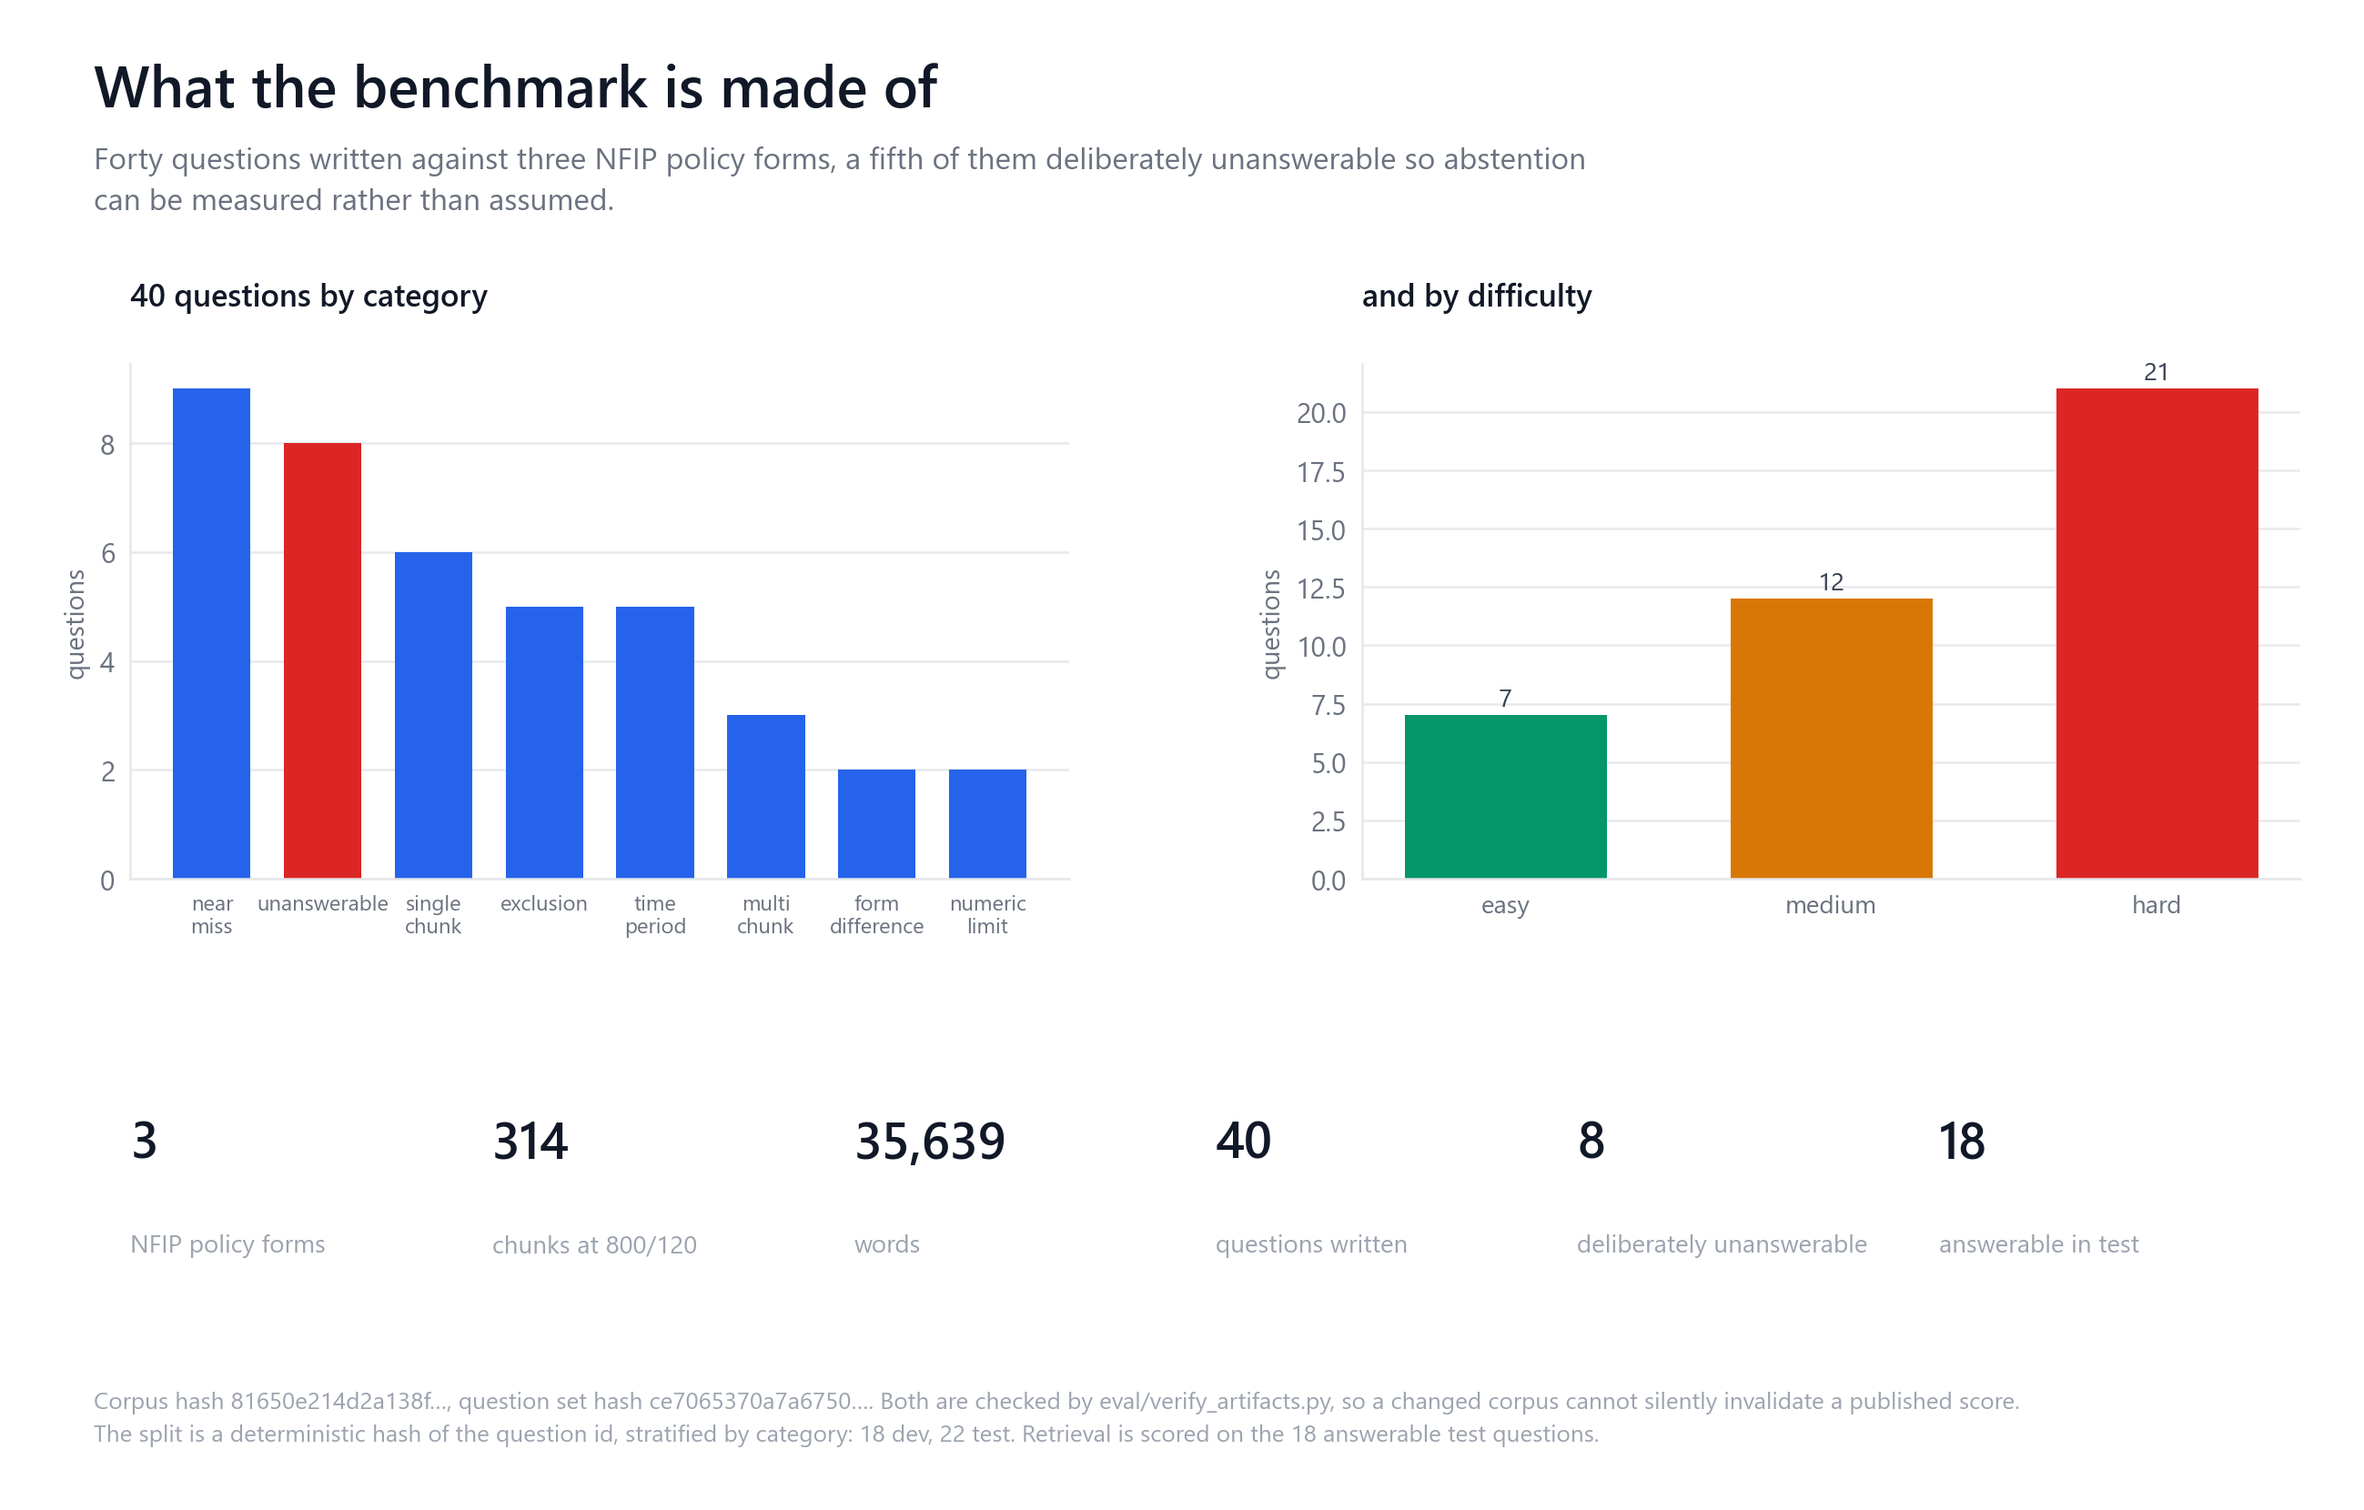
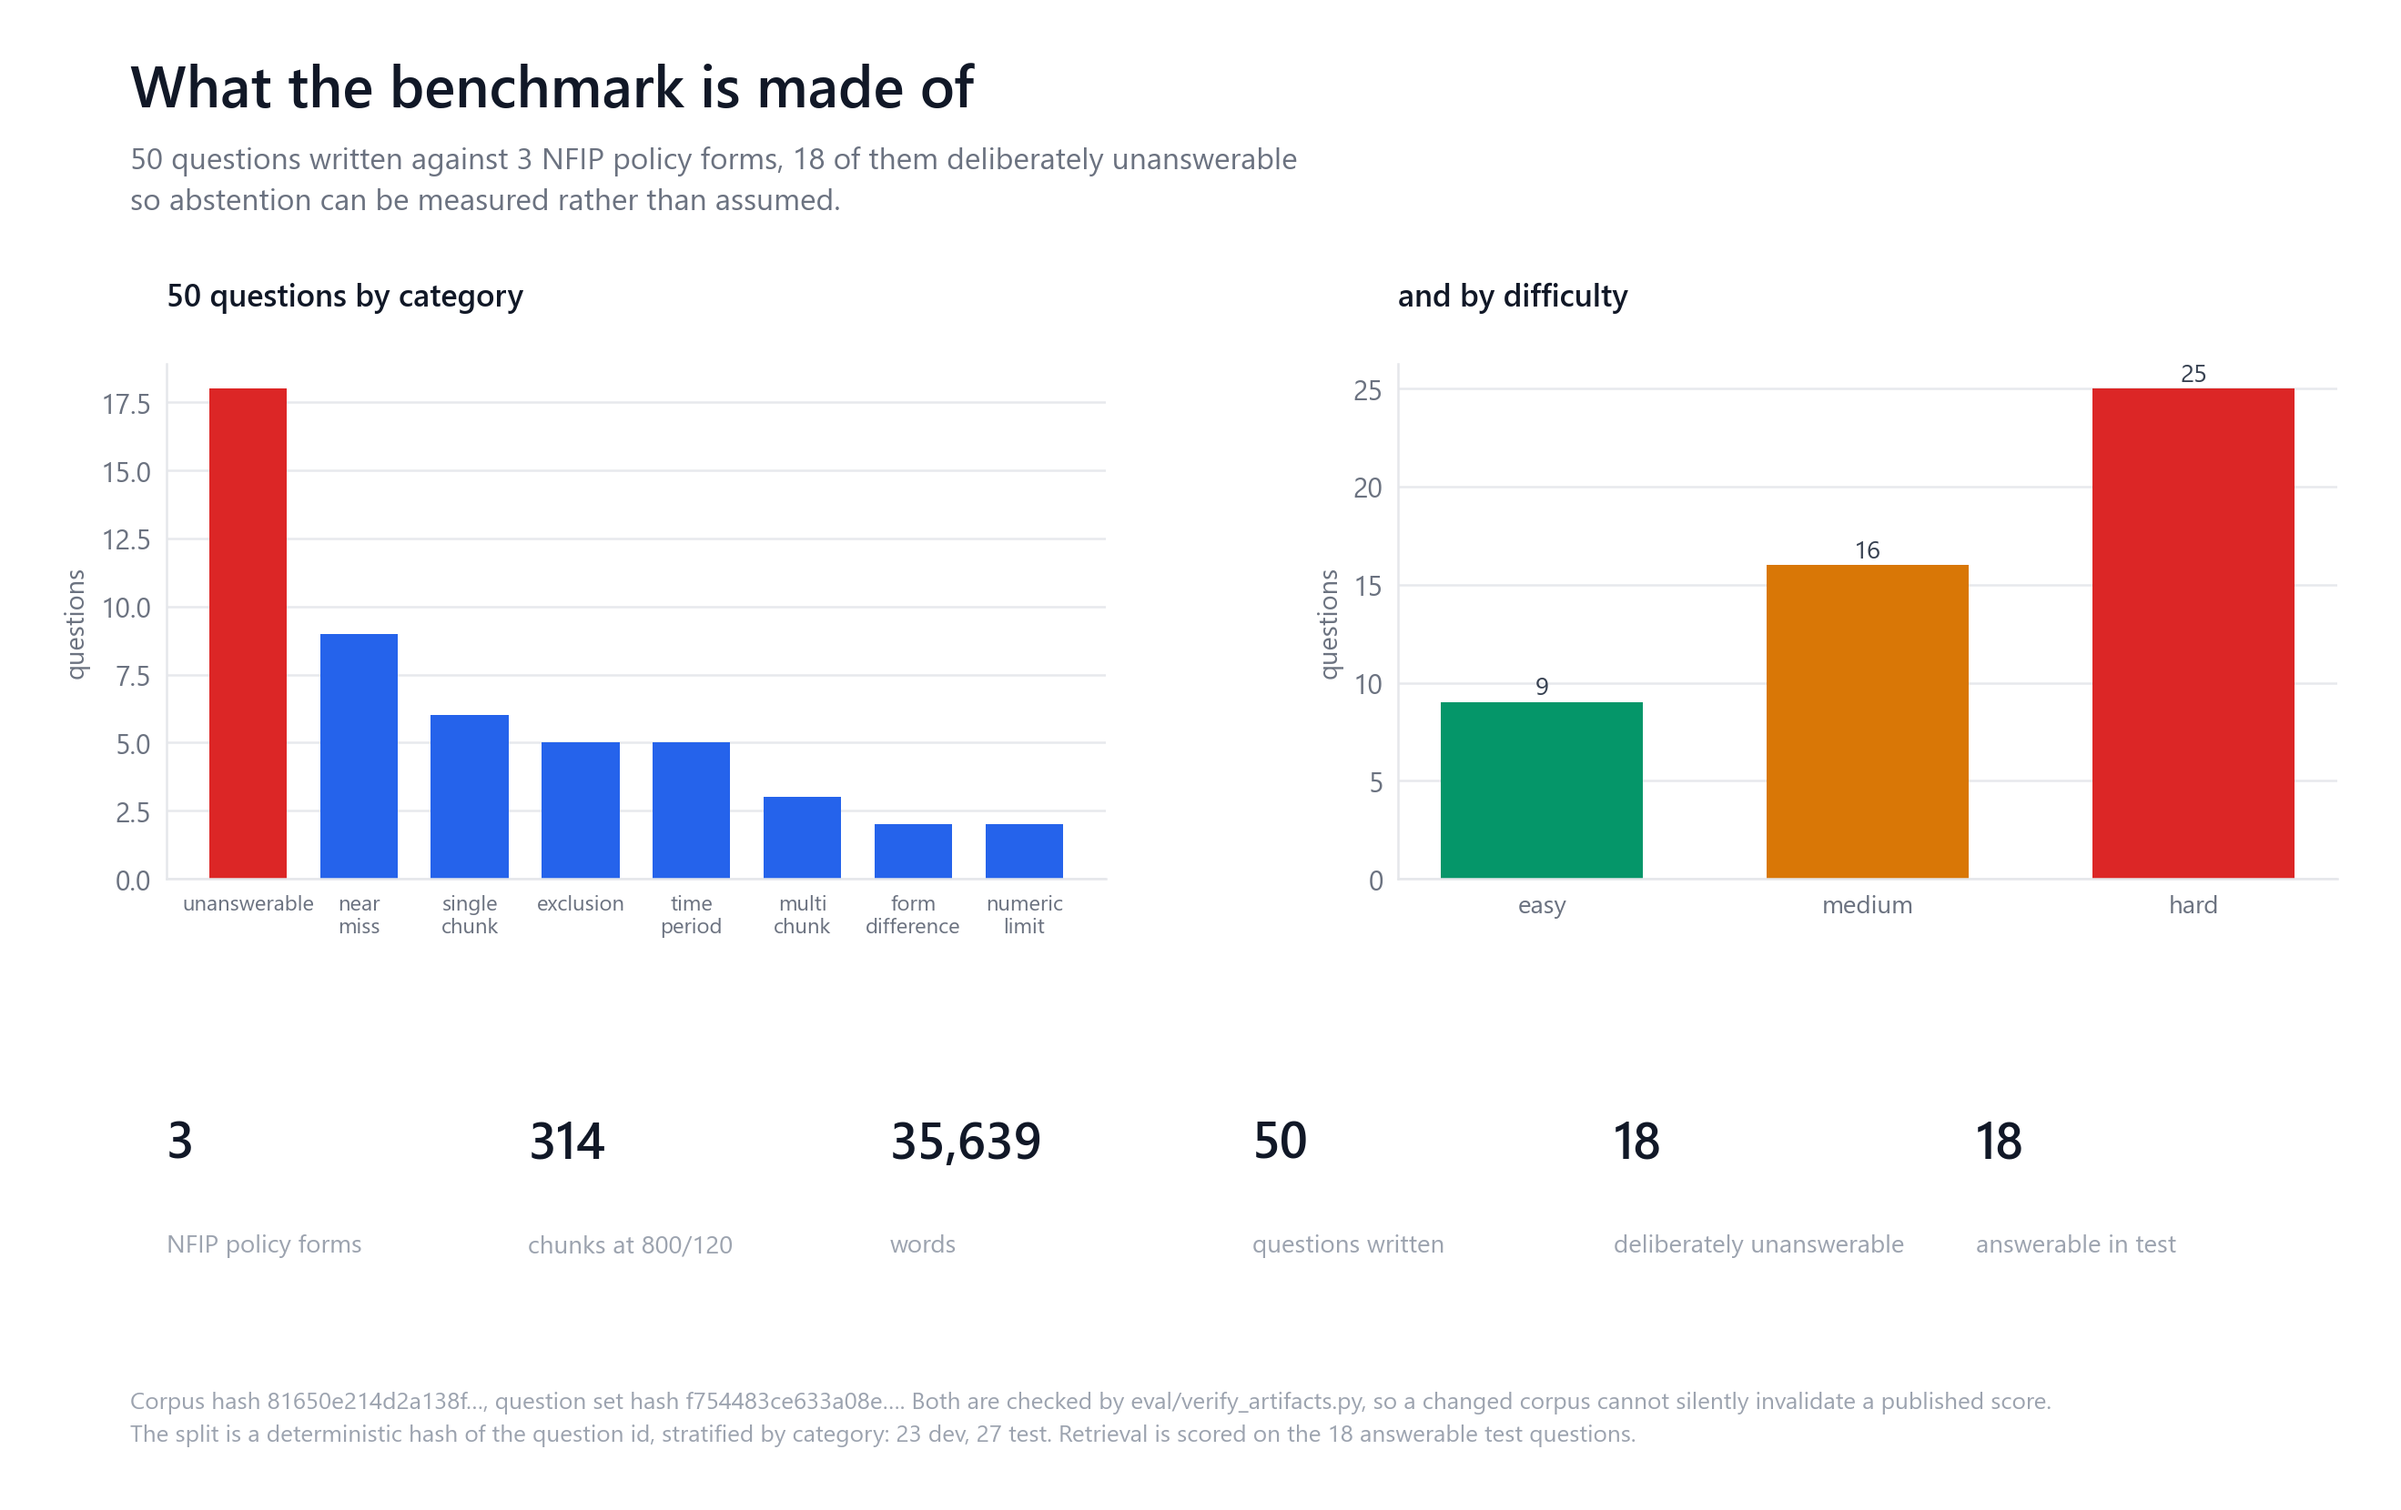
Fix stale question counts in docs and figures, and guard them
The unanswerable set was enlarged from 8 to 18 questions, taking the benchmark
from 40 to 50 and the split from 18/22 to 23/27. The artefacts and the code that
reads them moved; several hand-written numbers did not.

Stale claims corrected:

  docs/BENCHMARK.md   40 questions, 8 unanswerable, dev 18 / test 22,
                      "the 22 test questions include 4 unanswerable"
  docs/EVALUATION.md  40 questions, dev 18 / test 22
  figure 04           title "40 questions by category" over bars summing to 50;
                      subtitle "Forty questions ... a fifth of them";
                      footer "18 dev, 22 test"
  figure 05           "four out of four in this run" over a bar drawing 9;
                      "eight unanswerable questions in the whole benchmark"

Both figures contradicted themselves: the bars were computed from the reference
run and were already correct, while the prose above them was typed by hand. Every
one of those strings is now derived from the same dict that draws the chart, so
the two cannot drift apart again.

verify_artifacts already carried a comment noting this had happened once before,
and checks added then covered LIMITATIONS.md, README.md and the figure caption at
the foot of BENCHMARK.md. They did not cover the "What it measures against" block
at the top of that file, which is why the caption said fifty while the block said
forty. Six claims added for that block; checked claims go 21 -> 27. Against the
[…]

diff --git a/scripts/figures/generate_figures.py b/scripts/figures/generate_figures.py
@@ -228,7 +228,13 @@ def fig_benchmark(d, r, n, sets):
     axA.set_xticklabels([c.replace("_", "\n") for c in order], fontsize=8.6)
     ps.clean(axA, grid_axis="y")
     axA.set_ylabel("questions", fontsize=10.4)
-    axA.text(0, 1.10, "40 questions by category", transform=axA.transAxes,
+    # Derived, not typed. This title read "40 questions by category" while the
+    # bars underneath it were plotted straight from by_category and summed to
+    # fifty — the chart disagreed with itself, in the one place a reader looks
+    # first. Taking the total from the same dict that draws the bars means the
+    # two cannot drift apart again.
+    axA.text(0, 1.10, f"{sum(cats.values())} questions by category",
+             transform=axA.transAxes,
              fontsize=12.4, color=ps.INK, fontweight="600", va="bottom")
 
     diff = q["by_difficulty"]
@@ -257,17 +263,24 @@ def fig_benchmark(d, r, n, sets):
         axC.text(x, 0.62, val, fontsize=20, color=ps.INK, fontweight="600")
         axC.text(x, 0.20, lab, fontsize=10, color=ps.FAINT)
 
+    # Every count in this block is read from the artefact. It used to be spelled
+    # out in words — "Forty questions ... a fifth of them" — above tiles that
+    # were already deriving fifty and eighteen from the same dict, and a footer
+    # that still said 18 dev, 22 test after the split had become 23/27. The
+    # figure contradicted itself three ways in one image.
     ps.title_block(
         fig, "What the benchmark is made of",
-        "Forty questions written against three NFIP policy forms, a fifth of them "
-        "deliberately unanswerable so abstention\ncan be measured rather than assumed.",
+        f"{q['total']} questions written against {corpus['documents']} NFIP policy "
+        f"forms, {q['unanswerable']} of them deliberately unanswerable\n"
+        "so abstention can be measured rather than assumed.",
         y=0.962, size=23)
     ps.footnote(fig, [
         f"Corpus hash {corpus['corpus_hash'][:16]}…, question set hash " +
         f"{q['question_set_hash'][:16]}…. Both are checked by eval/verify_artifacts.py, " +
         "so a changed corpus cannot silently invalidate a published score.",
         "The split is a deterministic hash of the question id, stratified by category: " +
-        "18 dev, 22 test. Retrieval is scored on the 18 answerable test questions."],
+        f"{q['by_split']['dev']} dev, {q['by_split']['test']} test. "
+        f"Retrieval is scored on the {n} answerable test questions."],
         y=0.072)
     save(fig, "04_benchmark_composition")
 
@@ -307,19 +320,24 @@ def fig_abstention(d, r, n, sets):
              transform=axB.transAxes, fontsize=12.4, color=ps.INK,
              fontweight="600", va="bottom")
 
+    # "four out of four" and "eight unanswerable" below were written when the
+    # unanswerable set was smaller, and survived its enlargement: the bars here
+    # are computed from the artefact and were already drawing nine, directly
+    # above a sentence that said four. Both now come from the same numbers the
+    # chart does.
     ps.title_block(
         fig, "The part that does not work",
         "There is no abstention rule. Retrieval always returns something, so every "
-        "unanswerable question is passed to the\ngenerator and answered — four out of "
-        "four in this run.", y=0.962, size=23)
+        "unanswerable question is passed to the\ngenerator and answered — "
+        f"{answered} out of {n_unans} in this run.", y=0.962, size=23)
     ps.footnote(fig, [
         "No similarity threshold is applied, and none is claimed. On dev, no " +
         "single-threshold rule on the top-1 dense score beat the always-answer " +
         "baseline (0.778 against 0.778), and the hardest unanswerable question scored " +
         "above the answerable mean.",
-        "With eight unanswerable questions in the whole benchmark there is not enough " +
-        "evidence to fit a threshold, so the weakness is recorded rather than papered " +
-        "over.",
+        f"With {d['questions']['unanswerable']} unanswerable questions in the whole " +
+        "benchmark there is not enough evidence to fit a threshold, so the weakness " +
+        "is recorded rather than papered over.",
         f"Citation precision is bounded by design: with {cit['citations_checked']} " +
         "citations checked and five chunks returned for a question that often has one " +
         "relevant chunk, it cannot approach 1.0. Unsupported citation rate is 0.000 — " +

diff --git a/eval/verify_artifacts.py b/eval/verify_artifacts.py
@@ -102,7 +102,43 @@ DOCUMENTED_CLAIMS = [
     ("docs/BENCHMARK.md", r"the corpus and the (\d+) questions", "questions.total"),
     ("README.md", r"the corpus and the (\d+) questions", "questions.total"),
     ("README.md", r"Ground truth \((\d+) labels\)", "questions.total"),
+    # ...and it went stale a second time, in the one place the first fix did not
+    # reach. The checks above cover LIMITATIONS.md, README.md and the figure
+    # caption at the foot of BENCHMARK.md — which is why that caption correctly
+    # said fifty while the "What it measures against" block at the top of the
+    # same file still said forty, with a split of 18/22 that had become 23/27.
+    # A reader starts at the top. These pin the block that describes the
+    # benchmark, not just the ones that mention its size in passing.
+    (
+        "docs/BENCHMARK.md",
+        r"\*\*Questions:\*\* (\d+) hand-authored labels",
+        "questions.total",
+    ),
+    (
+        "docs/BENCHMARK.md",
+        r"hand-authored labels — (\d+) answerable",
+        "questions.answerable",
+    ),
+    (
+        "docs/BENCHMARK.md",
+        r"hand-authored labels — \d+ answerable, (\d+) unanswerable",
+        "questions.unanswerable",
+    ),
+    ("docs/BENCHMARK.md", r"Dev (\d+), test \d+", "questions.by_split.dev"),
+    ("docs/BENCHMARK.md", r"Dev \d+, test (\d+)", "questions.by_split.test"),
+    (
+        "docs/BENCHMARK.md",
+        r"the (\d+) test questions include",
+        "questions.by_split.test",
+    ),
 ]
+
+# Two numbers in that same block still have no artefact field to check against:
+# the 9 unanswerable questions inside the test split, and the 18 answerable test
+# questions that form the retrieval denominator. Both are derivable — 27 - 9 = 18,
+# and len(per_question) is 18 — but neither is published as its own key, so
+# check_claims has no path to point at. They are consistent as written and are
+# flagged here rather than left silently unguarded.
 
 #: Claims about the abstention experiment, which lives in its own artefact.
 ABSTENTION_CLAIMS = [

diff --git a/docs/BENCHMARK.md b/docs/BENCHMARK.md
@@ -9,9 +9,9 @@ Every number here is derived from [`eval/reference_run.json`](../eval/reference_
 ## What it measures against
 
 - **Corpus:** 3 NFIP policy forms, 35,639 words, **314 chunks** at 800/120 ([`DATA.md`](DATA.md)).
-- **Questions:** 40 hand-authored labels — 32 answerable, 8 unanswerable (20%).
-- **Split:** deterministic hash of the question ID, stratified by category. Dev 18, test 22.
-- **Retrieval denominator:** the 22 test questions include 4 unanswerable ones, which have
+- **Questions:** 50 hand-authored labels — 32 answerable, 18 unanswerable (36%).
+- **Split:** deterministic hash of the question ID, stratified by category. Dev 23, test 27.
+- **Retrieval denominator:** the 27 test questions include 9 unanswerable ones, which have
   no relevant chunk to retrieve. Every retrieval number on this page is therefore over the
   **18 answerable test questions**. At that size one question is 5.6 percentage points, so
   the gaps between the three retrievers are one or two questions wide — see

diff --git a/docs/EVALUATION.md b/docs/EVALUATION.md
@@ -2,8 +2,8 @@
 
 ## Splits
 
-40 hand-authored questions, split by a hash of the question ID stratified by category:
-**dev 18, test 22**. Deterministic, and asserted by a test.
+50 hand-authored questions, split by a hash of the question ID stratified by category:
+**dev 23, test 27**. Deterministic, and asserted by a test.
 
 Dev drove every decision: architecture, chunk size, fusion depth, BM25 parameters, and the
 abstention investigation. **Test was run once**, after the configuration was frozen into
